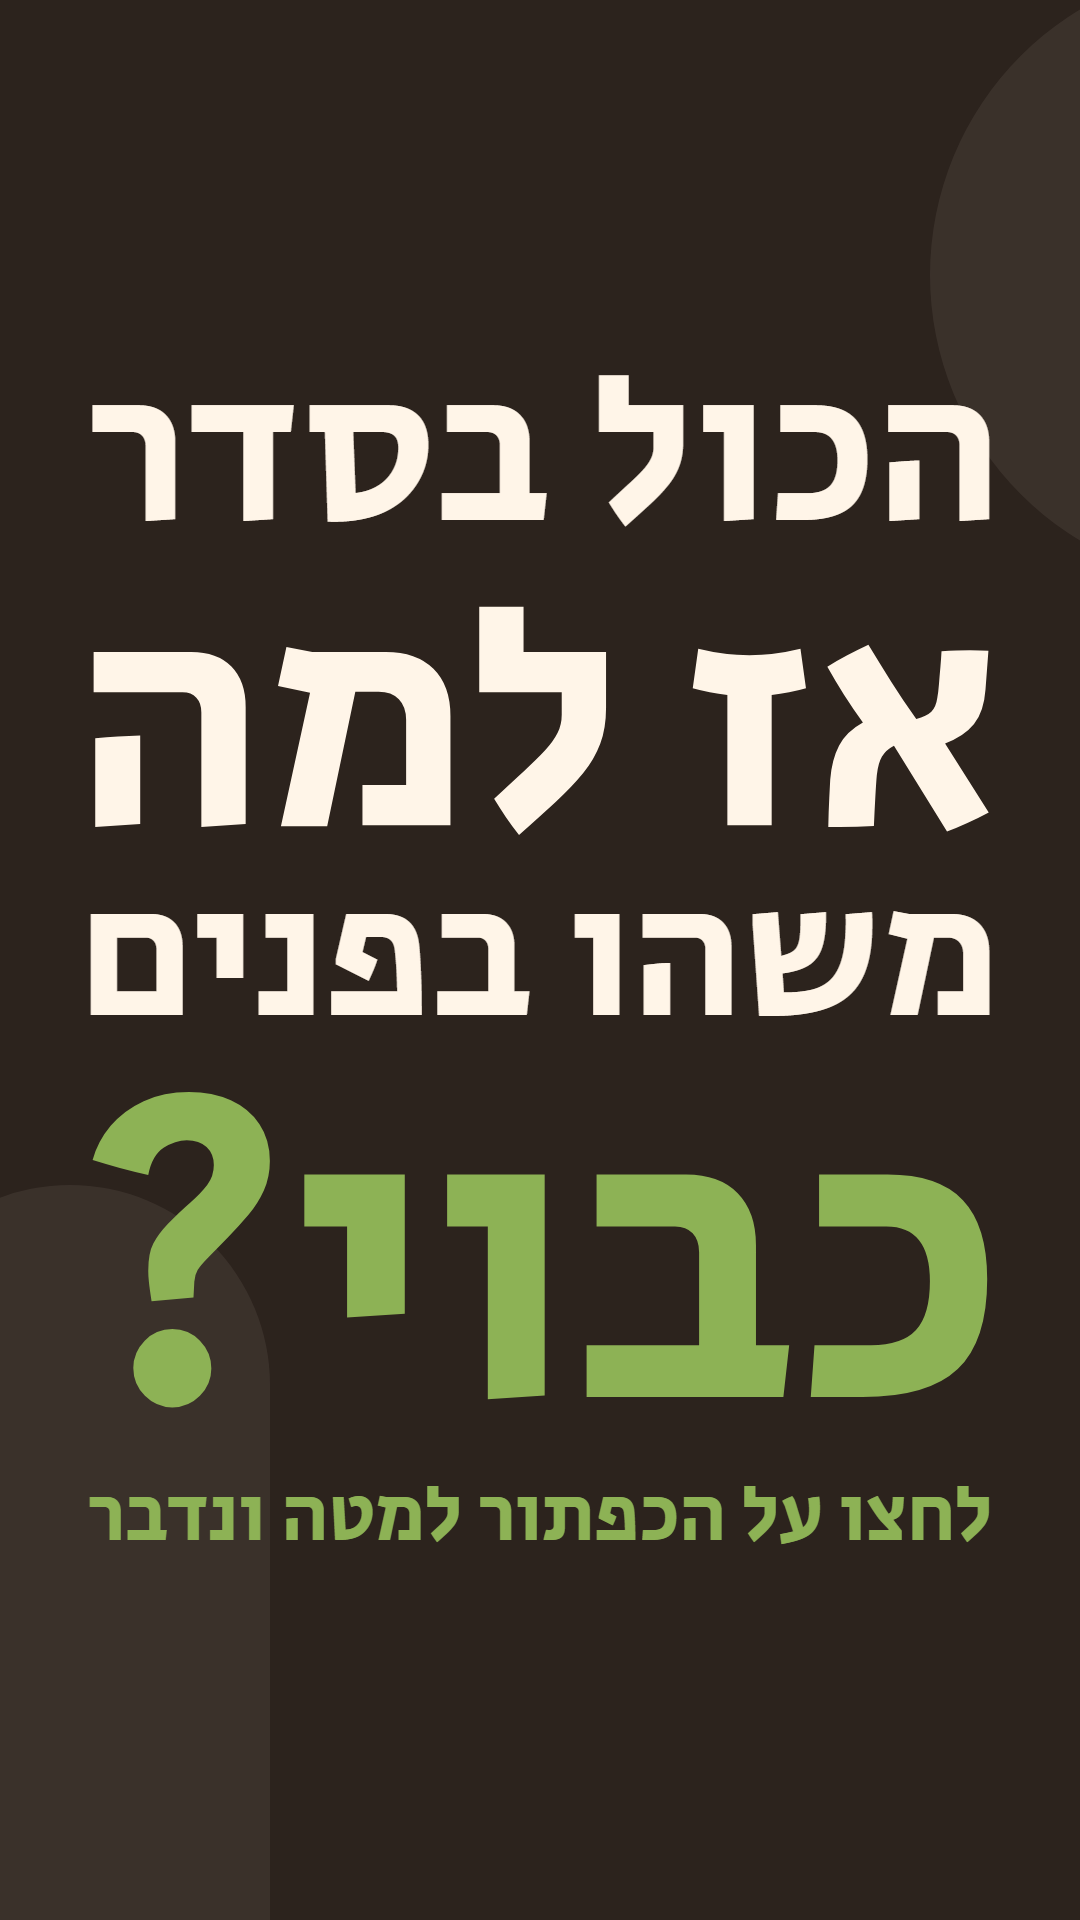
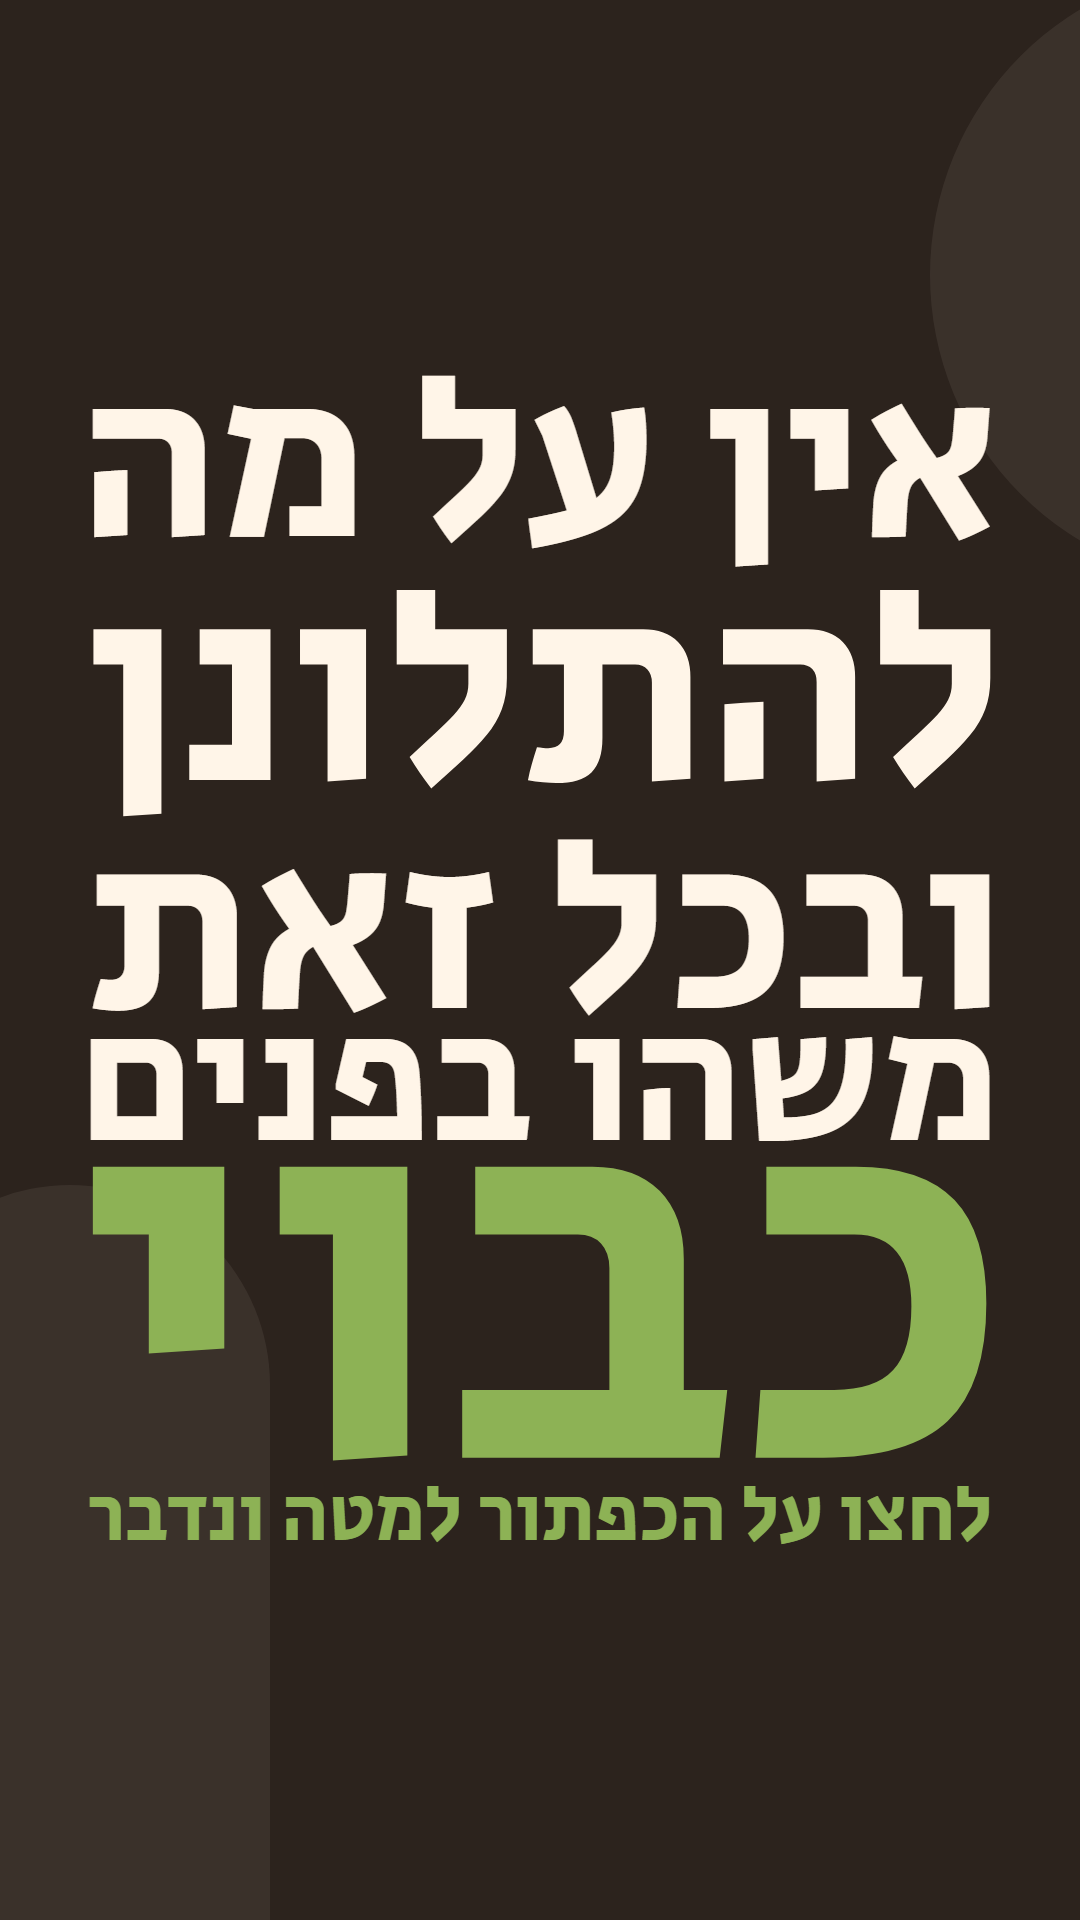
deploy test

Changed region(s): [[0.0611, 0.1875, 0.9167, 0.7812], [0.8861, 0.625, 0.9167, 0.6562]]

diff --git a/ads/tools/build_chat_ads.py b/ads/tools/build_chat_ads.py
@@ -16,11 +16,11 @@ ADS = {
   "fear": ([("הכי קשה", "fg"), ("זה לא להיות לבד", "fg"), ("זה להיכנס לחדר", "fg"), ("מלא אנשים", "acc"), ("ולא לדעת מה להגיד", "fg")], "#FFD8AE"),
   "seen": ([("מתי בפעם האחרונה", "fg"), ("מישהו הסתכל", "fg"), ("עלינו", "fg"), ("באמת?", "acc")], "#EC7F78"),
   "seen2": ([("יש הבדל", "fg"), ("בין שמכירים אותנו", "fg"), ("לבין", "fg"), ("שרואים", "acc"), ("אותנו", "fg")], "#EC7F78"),
-  "lost": ([("לאן נעלמנו?", "acc"), ("אלה שצחקו", "fg"), ("בלי סיבה", "fg"), ("והתרגשו", "fg"), ("מכל דבר", "fg")], "#FF8A5C"),
-  "dim": ([("הכול בסדר", "fg"), ("אז למה", "fg"), ("משהו בפנים", "fg"), ("כבוי?", "acc")], "#8DB255"),
-  "years": ([("הפחד שאף אחד", "fg"), ("לא אומר בקול", "fg"), ("שהשנים עוברות", "fg"), ("ואנחנו לא", "fg"), ("באמת חיים", "acc")], "#E5562D"),
-  "unseen": ([("מתי מישהו", "fg"), ("היה סקרן", "acc"), ("לגבי מי", "fg"), ("אנחנו", "fg"), ("באמת?", "fg")], "#EC7F78"),
-  "crowd": ([("מוקפים באנשים", "fg"), ("כל היום", "fg"), ("ועדיין", "fg"), ("לבד", "acc")], "#FFD8AE"),
+  "lost": ([("מתי הפסקנו", "acc"), ("לצחוק", "fg"), ("בלי סיבה?", "fg")], "#FF8A5C"),
+  "dim": ([("אין על מה", "fg"), ("להתלונן", "fg"), ("ובכל זאת", "fg"), ("משהו בפנים", "fg"), ("כבוי", "acc")], "#8DB255"),
+  "years": ([("עוד שנה עברה", "fg"), ("ואנחנו רק", "fg"), ("מתפקדים", "acc")], "#E5562D"),
+  "unseen": ([("מתי מישהו", "fg"), ("שאל מה שלומנו", "fg"), ("והתכוון", "acc"), ("לזה?", "fg")], "#EC7F78"),
+  "crowd": ([("כל היום", "fg"), ("עם אנשים", "fg"), ("ובערב", "fg"), ("הכי לבד", "acc")], "#FFD8AE"),
   "numb": ([("הכי מפחיד", "fg"), ("זה לא שהכול רע", "fg"), ("זה שהכול בסדר,", "fg"), ("ואנחנו כבר", "acc"), ("לא מרגישים", "acc")], "#E5562D"),
 }
 
